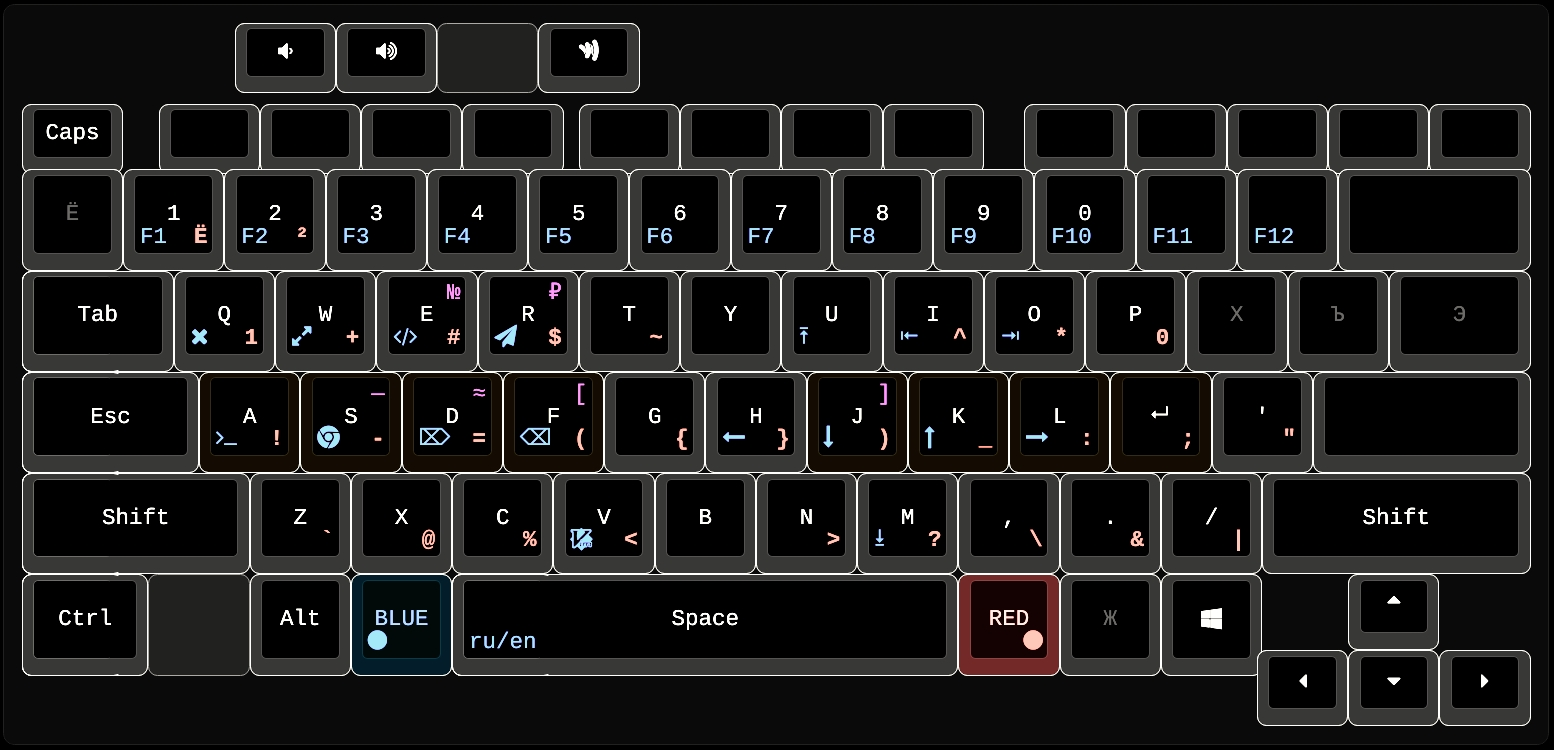
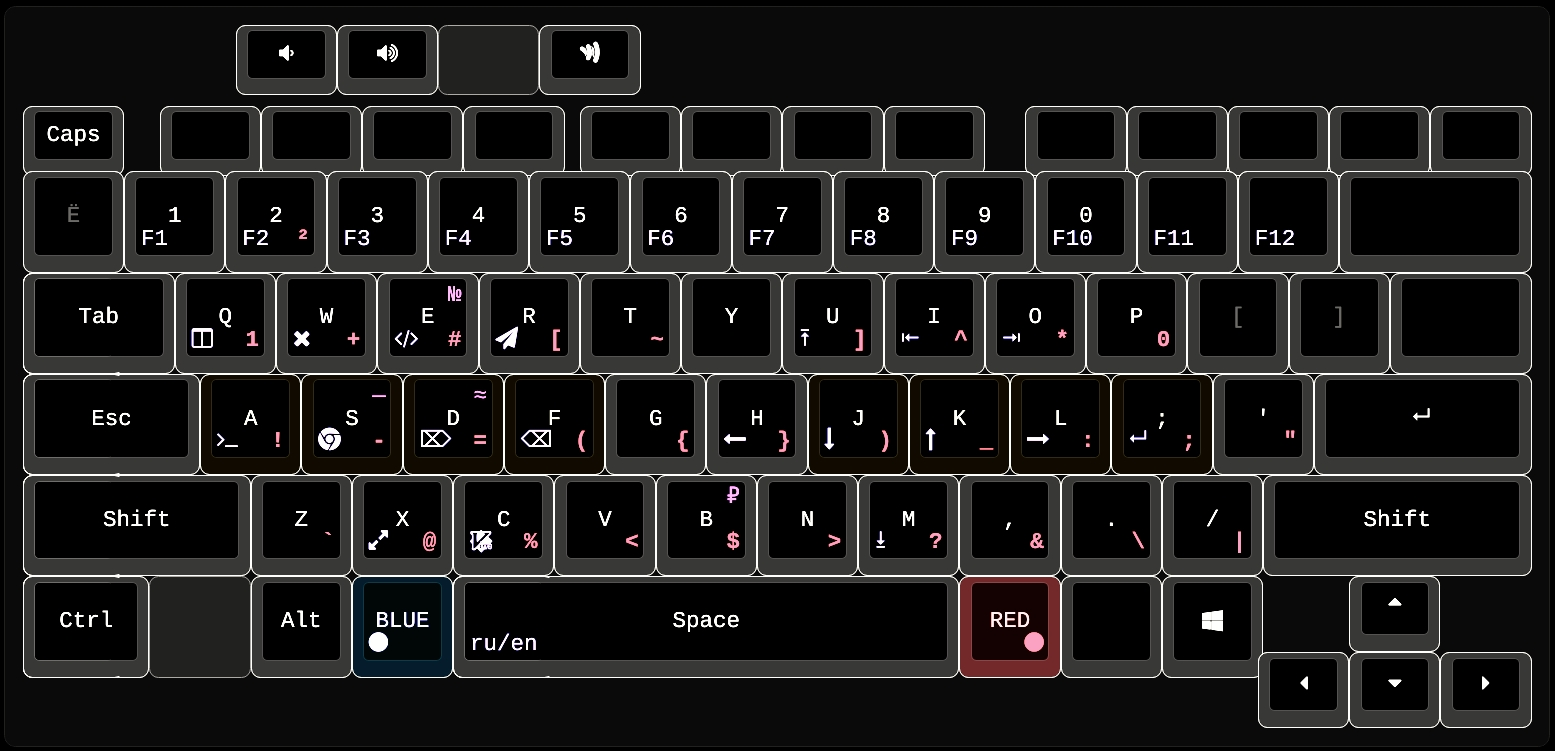
Changed brackets, Enter, launchers

diff --git a/README.md b/README.md
@@ -18,12 +18,8 @@ I am a C++ programmer speaking English and Russian. My OS is Ubuntu and I use VI
 - CapsLock is swapped with Escape ([here is why](https://vim.fandom.com/wiki/Avoid_the_escape_key))
 - Keys legend: center = no modifiers, top-left corner = shift, bottom-left = BLUE, bottom-right = RED, mid-right = Shift+RED, under the key = RED+BLUE
 - Symbols are arranged based on their frequency in C++ and Bash programming languages. Mnemonics isn't taken into account for the most part;
-- Return (aka Enter) button is placed under the right pinky as it's used far more often than the semicolon. Even in C++ code, `\n` appears twice more often than `;`.
+- Return (aka Enter) button may now be pressed without any finger movement (blue+;)
 - BLUE+hjkl for vim-like navigation are easy to use with left Shift and/or left Contorl (e.g. Ctrl+BLUE+L will move the cursor one word forward). BLUE+I = Home, BLUE+O = End.
 - Backspace/Delete are moved to places where they could be used with Ctrl (e.g. Ctrl+BLUE+F to delete the whole word) by left hand only. Handy in GUI applications (e.g. web browser) where you're forced to use a mouse with your right hand;
-- Instead of pressing Alt+Tab an unpredictable amount of times to switch between windows, you use the BLUE+key to jump directly to the desired window (Chrome, Terminal, IDE, Telegram etc). E.g. Blue+S will set the focus on the Browser, or launch it if it's not yet opened. For other programs, the Alt key is still here.
-- Period and comma buttons have the same behavior in both RU and EN layouts. This is more intuitive and VIM-friendly.
+- Instead of pressing `Alt+Tab` an unpredictable amount of times to switch between windows, you use the `BLUE+key` to jump directly to the desired window (Chrome, Terminal, IDE, Telegram etc). E.g. `BLUE+S` will set the focus on the Browser, or launch it if it's not yet opened. Conventional `Alt+tab` is replaced with `BLUE+Q`. For other programs, the Alt key is still here;
 - 0 and 1 are the most used number symbols in programming. They're copied to the RED layer to be conveniently typed in expressions like `if (i != 0) {`. Notice that your thumb is holding the RED key during the entire ` != 0) {` part, and you never have to reach the digit row!
-
-## TODO
-- Switch QWERTY/ЙЦУКЕН to Halmak/Diktor-ish
